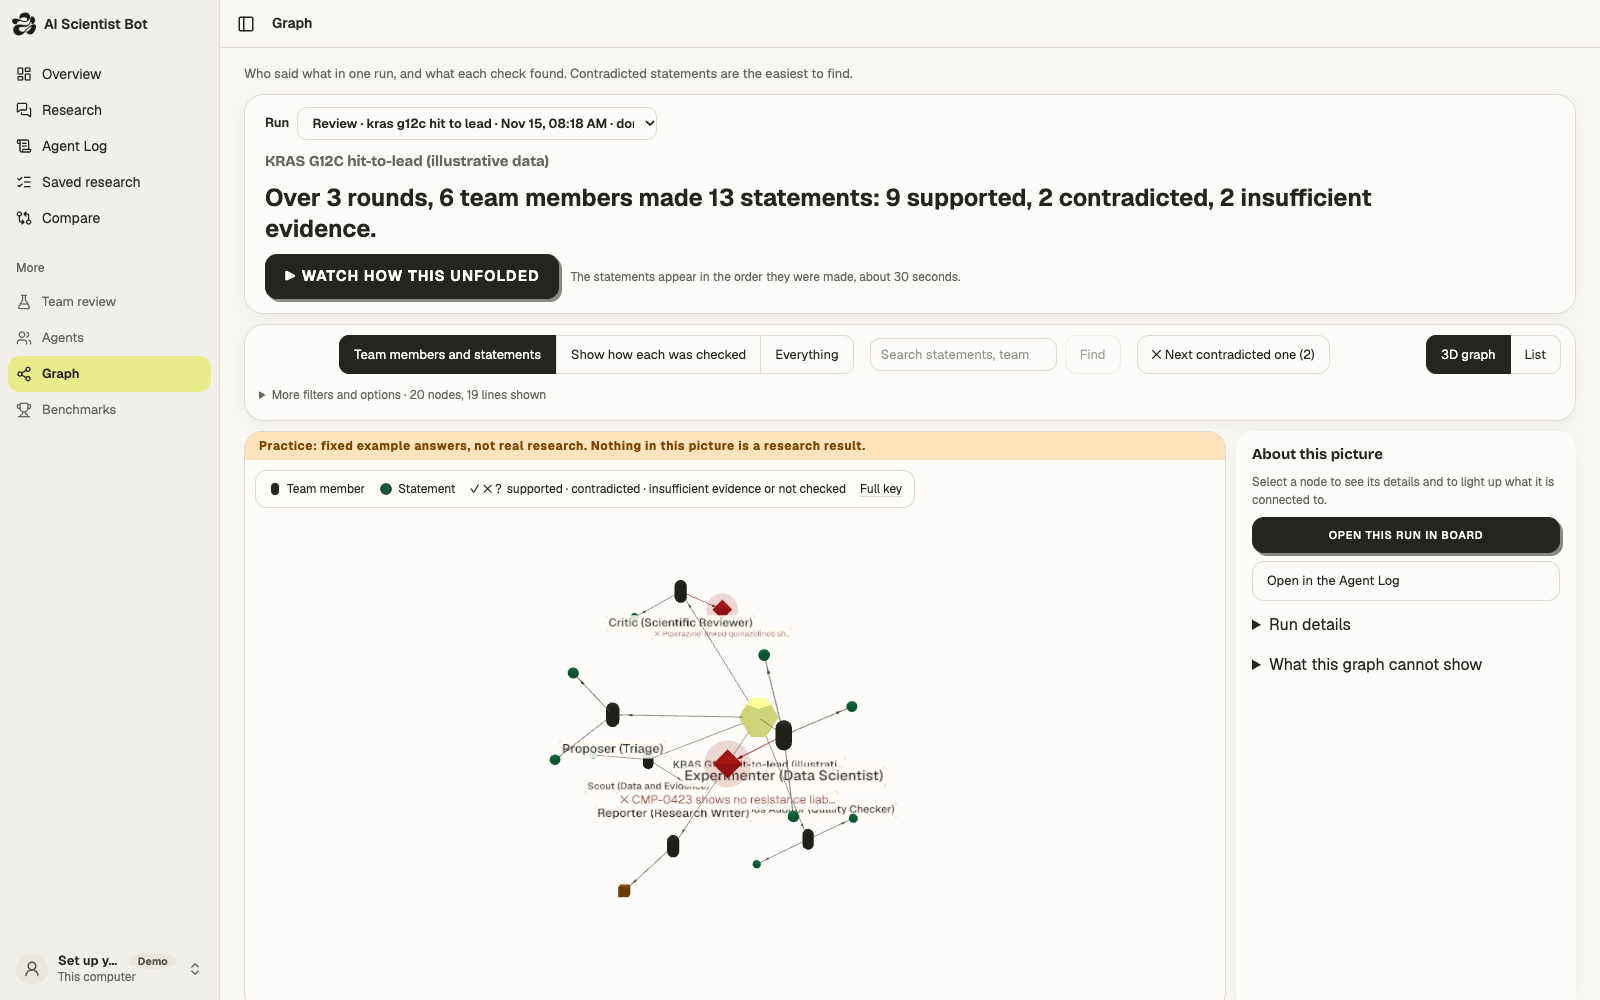
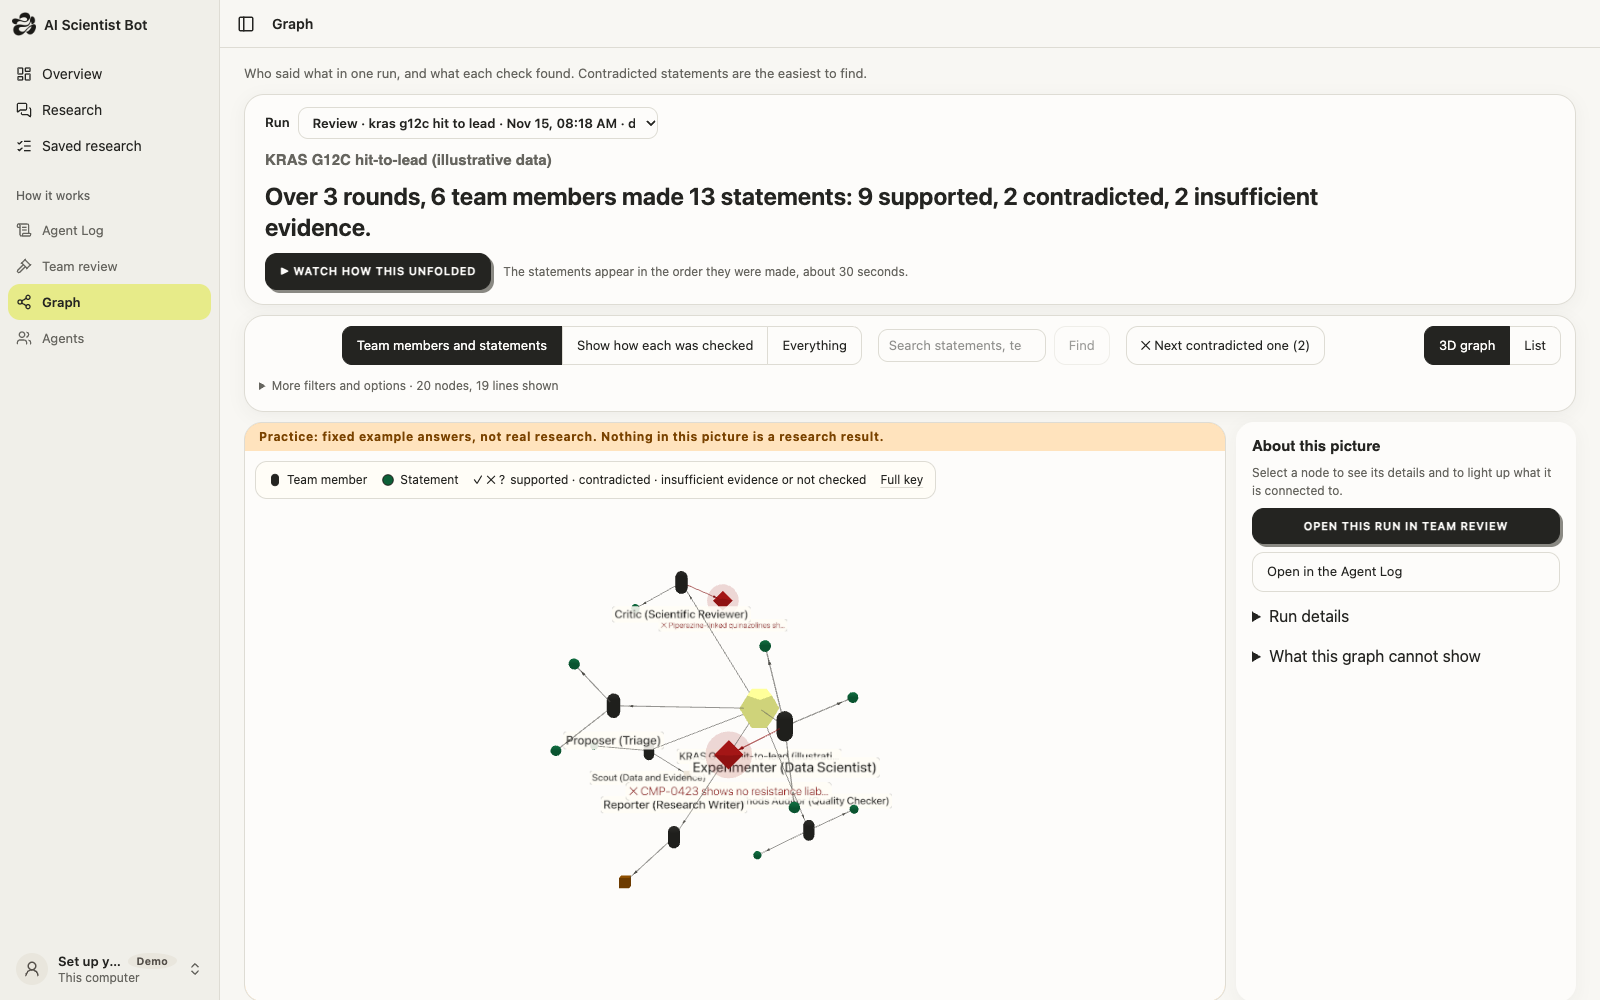
docs(readme): walk through the current app page by page, with new Demo screenshots

diff --git a/README.md b/README.md
@@ -6,7 +6,7 @@ checked, and what is still uncertain.**
 Built for the **SF AI Research Hackathon** (Track 3, AI Scientist Swarms) by team GLHF:
 Brendan Dang, Anh Lam and Josh Bustamante.
 
-**Contents:** [Try it](#try-it) · [Demo and Real](#demo-and-real) · [What is in the app](#what-is-in-the-app) ·
+**Contents:** [Run it](#run-it-on-your-machine) · [Demo and Real](#demo-and-real) · [Using the app](#using-the-app) ·
 [Where things stand](#where-things-stand) · [Benchmarks](#benchmarks) · [How it fits together](#how-it-fits-together) ·
 [Words](#words) · [Read more](#read-more)
 
@@ -127,24 +127,119 @@ only the case's data files are uploaded.
 Tested with fakes only; no run has used Modal yet. Details:
 [docs/configuration.md](docs/configuration.md#where-the-swarms-analyses-run-analysis_backend).
 
-## What is in the app
+## Using the app
 
-The sidebar has two groups. **Overview, Research, Saved research** come first: ask, read, find again.
-**How it works** holds Agent Log, Team review, Graph and Agents. Settings opens from the profile row at the foot.
-Benchmarks and Compare are not in the sidebar. They open only by their address (`#Benchmarks`, `#Compare`).
+The sidebar has two groups. **Overview**, **Research** and **Saved research** come first: ask, read, find again.
+**How it works** holds **Agent Log**, **Team review**, **Graph** and **Agents**. **Settings** opens from the profile
+row at the foot. Benchmarks and Compare are not in the sidebar; they open only by their address (`#Benchmarks`,
+`#Compare`). The pictures below are **Demo mode**: practice runs with fixed example text, not research. The app
+labels them "Practice".
 
-| Screen | What it is for |
-|---|---|
-| Overview | Ask in the "Let's research together!" question box. The answer is written right under the box. Below it, follow the six-room Agent Lab and its activity panel. The answer is also the conversation in Research, so a follow-up there continues it. One quiet line counts research and practice apart. |
-| Research | The chat. Ask a question and read the answer with its sources and its hypotheses. An example question fills the box; nothing is sent until you press Send. While the answer is made, the Agent Lab sits beside it (above it on a narrow screen); when the answer is done the Lab folds into one line. |
-| Saved research | Search past runs and open any result. The Examples tab has six read-only practice runs. |
-| Compare | Not in the sidebar; open `#Compare`. A team of nine agents against one agent alone, on the same task. |
-| Team review | One review in detail: the recommendation, how each statement was checked, and the sources. Its discussion is the Agent Log's group chat for that review, with a link "Open in Agent Log". |
-| Agents | The agents and what each one does, as member cards grouped by team: the team of nine in step order, the team review with its lead first, then the specialists A to Z. Details opens one member at a time in a side panel, so the other cards keep their size. |
-| Graph | One run as a picture of who said what. |
-| Agent Log | Every event of the selected run, shown as a group chat. Each agent turn is a message beside the agent's picture and name. Longer reasoning opens with "Show thinking"; other long text, such as an answer draft, opens with "Show more". Tool calls, searches and system steps are small notes between the messages. While a run is live, the log stays on the newest message. One toolbar holds the search box, the Agent and Kind of step menus (each choice with its number of events) and Clear; on the right, Download (JSON or CSV of the shown events). The run menu above it lists runs in progress, then finished runs (research answers, team reviews and task runs), next to Follow newest. A team review shows a "Round n" line where each round begins, the lead and the members as messages, and each statement check as a quiet note with its mark (✓ supported, ✕ contradicted, ? insufficient evidence, ○ not checked). No room picture here; the Lab stays on Overview. |
-| Benchmarks | Not in the sidebar; open `#Benchmarks`. Our benchmark results set out as an evaluation: model, accuracy with its interval, tokens, time and cost, beside the record to beat. |
-| Settings | Demo or Real, Usage and limits (spent today, the limit per run and per day, Exa search), and Appearance: Light, Dark, or Match system. |
+### 1. Overview: ask, and watch the team work
+
+The app opens here. Type a question in the **"Let's research together!"** box, choose Quick, Standard or Deep, and
+press Send. Under the box, **Try asking** shows biology questions; a click fills the box, and nothing is sent until
+you press Send. The answer is written right under the box. Below it, the **Agent Lab** shows the team as characters in
+six rooms (Discovery, Planning, Experiment bench; Evidence review, Quality control, Report studio). Click a teammate to
+see what it does now, and its steps in the Agent Log. The activity panel follows the run. One quiet line counts
+research and practice apart. Spending and limits are in Settings.
+
+![The Overview: the question box, Try asking, and the Agent Lab with six rooms](docs/images/overview.png)
+
+The Lab's look is by Anh Lam.
+
+### 2. Research: the answer as a chat
+
+An Overview question continues here as the same conversation, so a follow-up keeps the context. The answer is
+written **live**: its text appears as the writer writes it, under short lines that say what the team is doing
+("Searching the web: found 6, kept 4."). Each cited sentence has a source number and a check mark. Below the text are
+the **hypotheses**, each with its sources for and against, then "What is missing" and the sources. Pictures from the
+sources show in a strip under the text; each links to its source page. "Open in the Agent Log" shows every step.
+
+Try asking works as on Overview: a click fills the box. The button at the top right opens the **inspector**, with
+four tabs:
+
+- **Evidence**: the sources (found, selected, cited) and each checked statement with its quoted passage. A citation
+  number in the answer opens this tab with that source lit; "Show in the answer" goes back.
+- **Hypotheses**, **Results** (the saved files) and **Activity** (the steps, in order).
+
+![Research: a practice answer with the inspector open on the Evidence tab](docs/images/research.png)
+
+While an answer is made, the **Agent Lab** sits beside the conversation, on the right. A narrow screen puts the Lab
+above the conversation. When the Lab sits above the conversation and is narrower than 480 px, the agents' name tags
+are hidden so they do not overlap; click an agent's dot to see its name. Beside the conversation the name tags always
+show. The Lab uses the same scene as the Overview. Agents move only for steps the engine reports. Agents with no step
+stay at their desks. Click an agent to see what it is doing. "Hide the lab" folds it into one line. The browser
+remembers this choice for the next answer. When the answer is done, the Lab folds by itself. "Show the lab" opens it
+again, and "Replay" plays the recorded events again. A Demo answer is finished in a fraction of a second, so the Lab
+replays a new Demo answer once, labelled "Replay". "Pause motion" stops all movement. With the system's reduced-motion
+setting, nothing moves and nothing replays by itself. Code: `dashboard/src/research/ResearchLive.tsx`.
+
+![Research with a Demo answer on the left and its Agent Lab replaying on the right](docs/images/research-lab.png)
+
+![A narrow screen: the Agent Lab, opened again after the answer, above the conversation (taken before name tags were hidden on narrow Labs)](docs/images/research-lab-narrow.png)
+
+### 3. Saved research: everything that was run
+
+Newest first, with a search box that finds a word in a question, a result or anything that was said. Filters:
+Answers, Team reviews, Benchmark runs and **Examples** (six read-only practice runs, see
+[Example library](#example-library)). Each row opens the run, and has a link to its Agent Log (and to its Graph, for
+a run that has one).
+
+### 4. Agent Log and Team review: who said what
+
+The **Agent Log** shows every event of one run as a **group chat**. Each agent turn is a message beside the agent's
+picture and name. Longer reasoning opens with **Show thinking**; other long text opens with **Show more**. Tool
+calls, searches and system steps are small notes between the messages. One toolbar holds the search box, the
+**Agent** and **Kind of step** menus (each choice with its number of events), Clear and Download (JSON or CSV). The
+run menu at the top lists runs in progress, then finished ones (research answers, team reviews and task runs), next
+to **Follow newest**. Click a face or a name to see only that agent's messages, then follow the link to its card in
+Agents. A team review shows a "Round n" line where each round begins, the lead and the members as messages, and each
+statement check as a quiet note with its mark (✓ supported, ✕ contradicted, ? insufficient evidence, ○ not checked).
+
+![The Agent Log: one run as a group chat, with the search box and the Agent and Kind of step menus](docs/images/agent-log.png)
+
+A **Team review** is the drug board: a lead scientist and seven members discuss a written brief over rounds, and the
+lead writes a recommendation. In every round the scout gathers sources first, then the **evidence verifier** rechecks
+each source the scout cited and searches for what it missed; the lead reads its report before deciding. The screen shows the recommendation first, then how many statements were checked and
+how each one did (supported, contradicted, insufficient evidence), who took part, and the discussion round by round.
+The discussion is the Agent Log's group chat for that review, with a link "Open in Agent Log". Each member opens its
+messages in the Agent Log; each source and checked statement has an "In the graph" link.
+
+![Team review: the recommendation, the counts of checked statements, and who took part](docs/images/team-review.png)
+
+### 5. Agents: who does the work
+
+All agents as member cards, grouped by team: the **team of nine** (benchmark tasks) in step order, the **team review**
+with its lead first, then the **specialists** A to Z. Filter by team or search by name, job or tool. **Details** opens
+one member in a side panel, with a link to its messages in the Agent Log.
+
+![Agents: member cards for the team of nine, with their step and model group](docs/images/agents.png)
+
+### 6. Graph: one run as a picture
+
+One run (a team review, or a Compare run on a benchmark task) as a 3D graph of team members and their statements, coloured by what each
+check found. "Watch how this unfolded" replays the statements in order; "Next contradicted one" jumps to a problem.
+Select a node to see its details and what it connects to. The side panel links back to the run and to the Agent Log.
+A research answer has no graph.
+
+![Graph: a practice team review as members and statements, with contradicted ones in red](docs/images/graph.png)
+
+### 7. Settings
+
+Your profile (kept in this browser only), **Run mode** (Demo or Real; see [Turn on Real mode](#turn-on-real-mode)),
+**Usage and limits** (spent today, the limit per run and per day, Exa search), the session token for Real runs, and
+**Appearance**: Light, Dark or Match system. Light is the default.
+
+### Compare and Benchmarks
+
+These two are not in the sidebar; open them by their address. **Compare** (`#Compare`) runs the team of nine against
+one agent alone on the same benchmark task. **Benchmarks** (`#Benchmarks`) sets out our
+results as an evaluation: model, accuracy with its interval, tokens, time and cost, beside the record to beat. These
+numbers come from real runs, read from the run records. Where something was not measured the screen says "Not
+known". See [Benchmarks](#benchmarks).
+
+![The Benchmarks screen: the record to beat, and one agent against the team of nine with accuracy, tokens, time and cost](docs/images/benchmarks.png)
 
 ### How the screens connect
 
@@ -166,10 +261,7 @@ The address bar always says what is shown, so Back, Forward and a copied link re
 `#Lab/<kind>/<run id>?agent=<name>`, `#Graph/<kind>/<run id>?node=<node id>`, `#Agents/<name>`, `#Board/<run id>`,
 `#Compare/<run id>`. The code is in `dashboard/src/lib/links.ts`.
 
-The Overview Lab has **three rooms across and two down on wide screens**: Discovery, Planning,
-Experiment bench; Evidence review, Quality control, Report studio. The activity panel sits
-below it. Narrow screens use fewer columns. Agents walk between rooms along the corridors.
-The room art is unchanged. The Lab's look is by Anh Lam.
+### How a research answer is made
 
 Research answers can add **method specialists** whose skills fit the question. Code matches
 the question to their method notes. They write from the sources found; their sections are
@@ -204,9 +296,11 @@ cannot be read, curated biology questions are shown. On Overview and on Research
 the box; nothing is sent until you press Send. If the engine cannot be reached, the older example questions stay.
 
 Research answers search the literature in six free sources at once: Europe PMC (PubMed and
-preprints), OpenAlex, Semantic Scholar, arXiv, Crossref and bioRxiv/medRxiv. A source that fails is skipped and named; a
-paper found twice is listed once. No key is needed. See
-[docs/research-answer.md](docs/research-answer.md#the-flow).
+preprints), OpenAlex, Semantic Scholar, arXiv, Crossref and bioRxiv/medRxiv. A source that fails is
+skipped and named; a paper found twice is listed once, and a paper OpenAlex marks as retracted is
+dropped. No key is needed. Answers from the public
+databases (ChEMBL, Open Targets, UniProt and others) are kept for 10 minutes, so a repeated lookup
+does not ask again. See [docs/research-answer.md](docs/research-answer.md#the-flow).
 
 Research answers can also find **lab protocols and SOPs**. When a question asks for a protocol,
 an SOP or how to do a lab method ("How do I isolate hepatocytes from mouse liver?"), the answer
@@ -246,52 +340,6 @@ node scripts/generate-examples.mjs
 
 The script starts its own engine with paid calls off and locked. It makes the events through
 the Demo pipeline, not by hand. These are practice runs, not research or benchmark results.
-
-### Earlier Demo screenshots
-
-The Overview, Research, Team review and Lab pictures below show earlier layouts in **Demo
-mode**. They are practice runs: fixed example text, not research. The app labels them "Practice".
-The Benchmarks picture is described separately.
-
-**Overview.** Practice runs are counted apart from research, so the big number is only what real
-models produced.
-
-![The Overview screen: totals, runs per day and the latest runs](docs/images/overview.png)
-
-**Research.** You ask; the answer is split into hypotheses, each with the sources for and against
-it. A mark that rests on one source only says so ("one source only").
-
-![The Research screen with a practice answer split into two hypotheses](docs/images/research.png)
-
-**Research's live Agent Lab.** While an answer is made, the conversation is on the left and the
-Agent Lab is on the right. A narrow screen puts the Lab above the conversation. When the Lab sits above the conversation
-and is narrower than 480 px, the agents' name tags are hidden so they do not overlap; click an
-agent's dot to see its name. Beside the conversation the name tags always show. The Lab uses the same
-scene as the Overview. Agents move only for steps the engine reports. Agents with no step stay at
-their desks. Click an agent to see what it is doing. "Hide the lab" folds it into one line. The
-browser remembers this choice for the next answer. When the answer is done, the Lab folds by itself.
-"Show the lab" opens it again, and "Replay" plays the recorded events again. A Demo answer is
-finished in a fraction of a second, so the Lab replays a new Demo answer once, labelled "Replay".
-"Pause motion" stops all movement. With the system's reduced-motion setting, nothing moves and
-nothing replays by itself. Code: `dashboard/src/research/ResearchLive.tsx`.
-
-![Research with a Demo answer on the left and its Agent Lab replaying on the right](docs/images/research-lab.png)
-
-![A narrow screen: the Agent Lab, opened again after the answer, above the conversation (taken before name tags were hidden on narrow Labs)](docs/images/research-lab-narrow.png)
-
-**Team review.** The decision first, then how many statements were checked and how each one did.
-
-![The Team review screen: the recommendation and the counts of supported, contradicted and unproven statements](docs/images/team-review.png)
-
-**Overview's Agent Lab.** The same run as a scene: who is working and who fetched what.
-This earlier picture shows the room art, not the current three-column layout or the Agent Log.
-
-![Earlier Demo Lab: six rooms with agents as characters and an activity panel](docs/images/lab.png)
-
-**Benchmarks.** These numbers are real runs, read from the run records. Where something was not
-measured the screen says "Not known".
-
-![The Benchmarks screen: the record to beat, and one agent against the team of nine with accuracy, tokens, time and cost](docs/images/benchmarks.png)
 
 ## Where things stand
 
@@ -434,7 +482,7 @@ holds the keys, enforces the spending limits, and is the only part that reaches 
 ```mermaid
 flowchart TB
     you(["You, in a browser"])
-    app["<b>The app</b> (dashboard) · 127.0.0.1:5317<br/>Research · Saved research · Compare · Team review<br/>Agents · Graph · Lab · Settings"]
+    app["<b>The app</b> (dashboard) · 127.0.0.1:5317<br/>Overview · Research · Agent Log · Saved research · Compare<br/>Team review · Agents · Graph · Benchmarks · Settings"]
 
     subgraph engine["The engine · 127.0.0.1:8787 · on your machine"]
         gate{"Access check and<br/>spending limits"}
